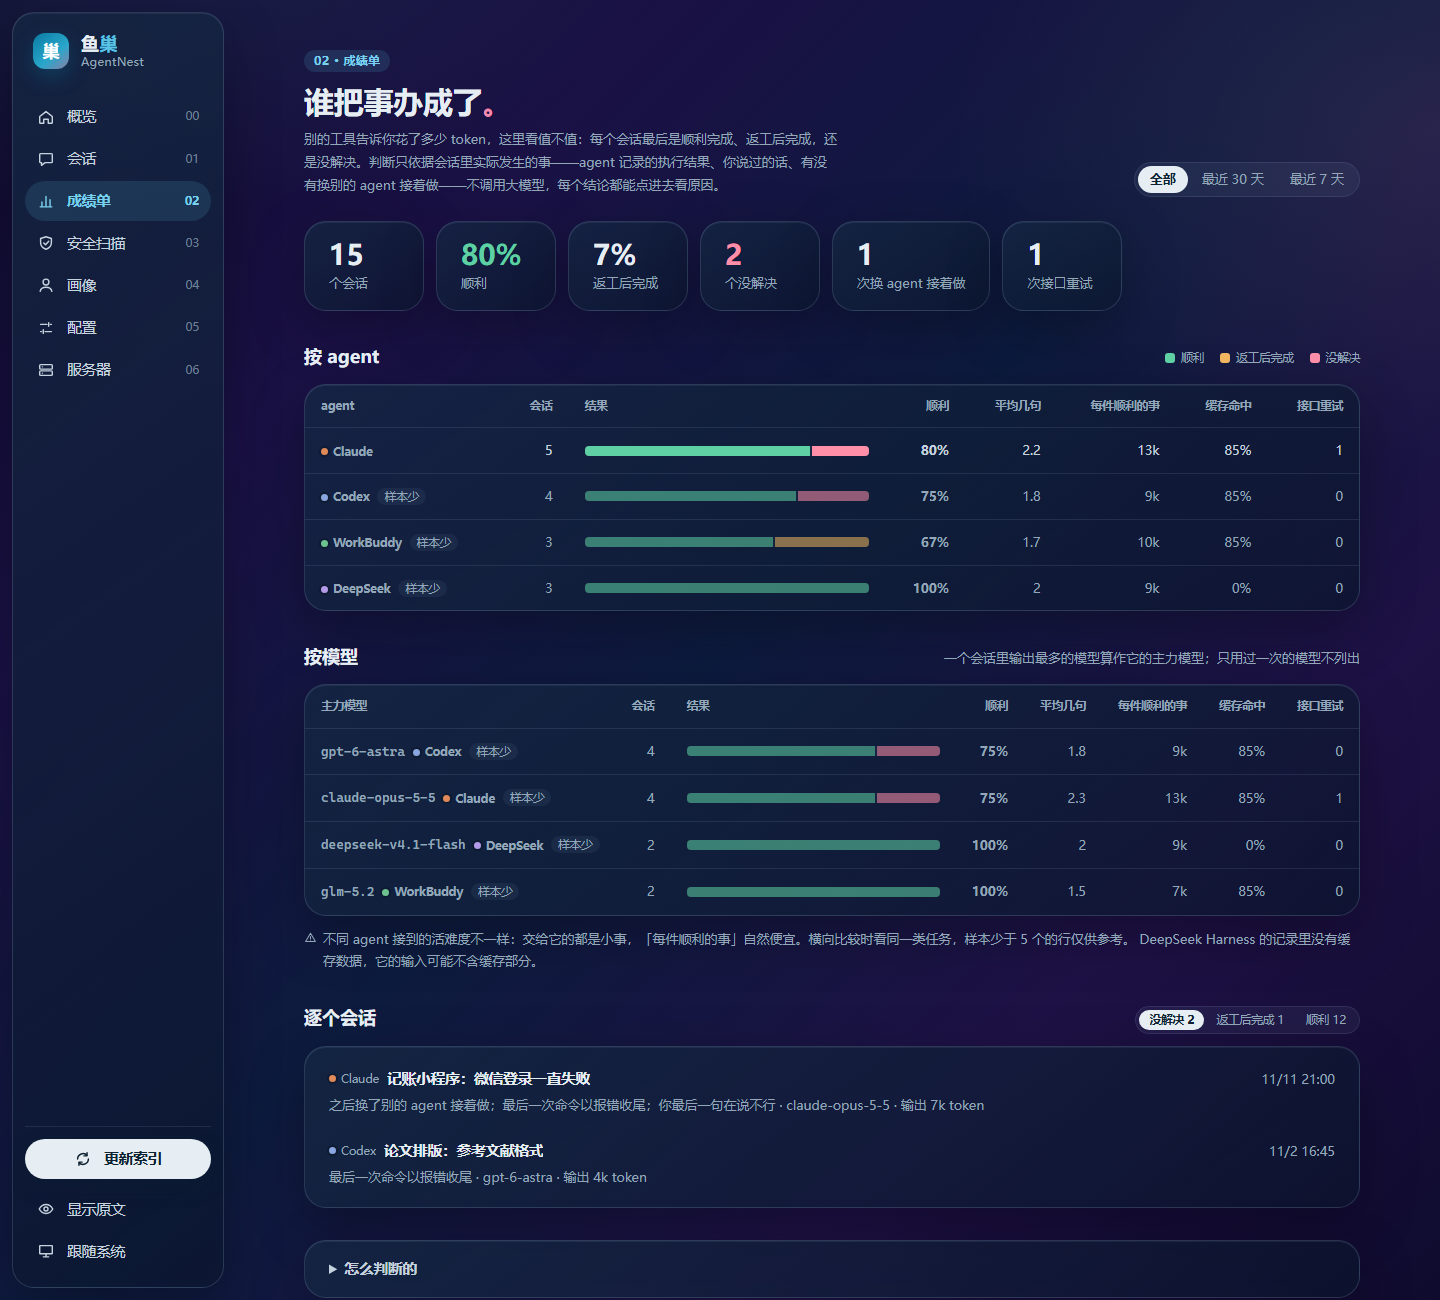
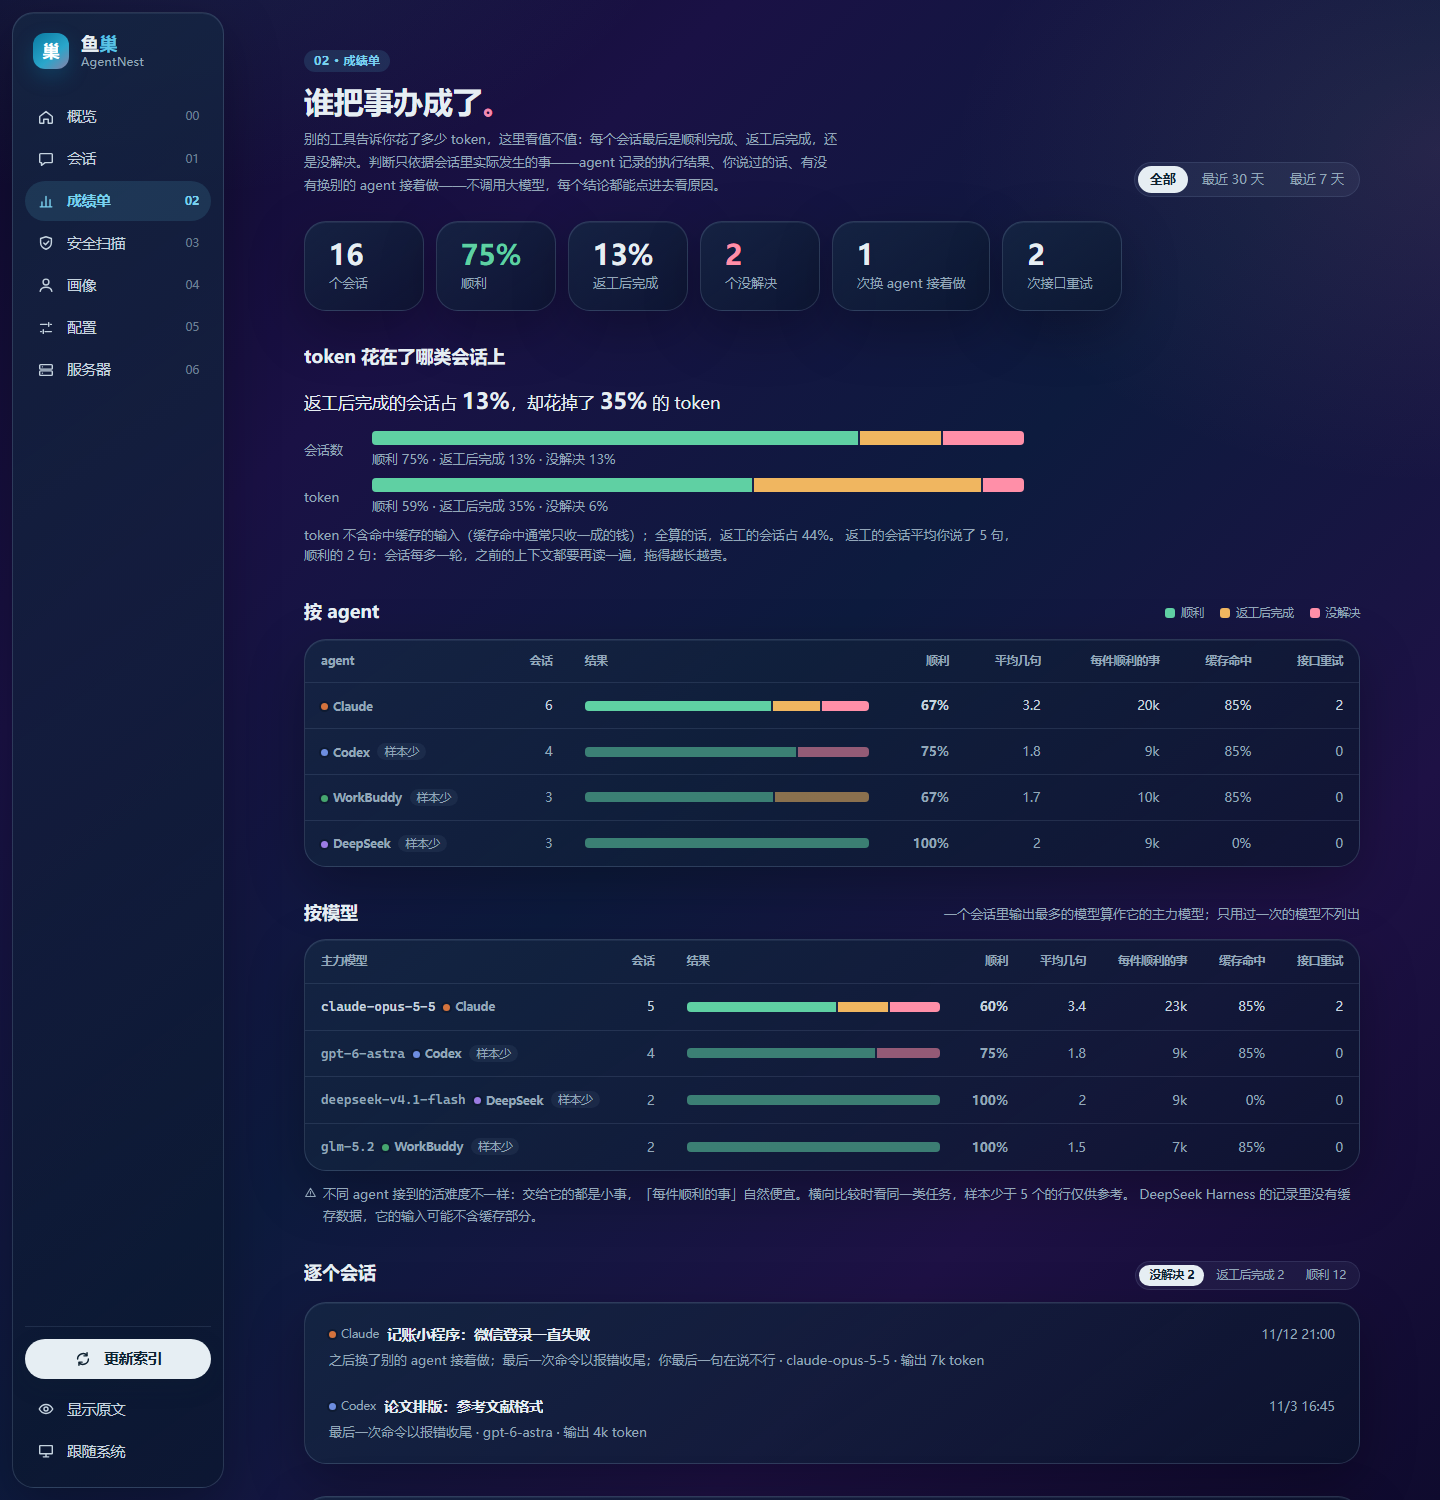
演示数据加一个长的返工会话；文档：复盘和 token 去向写进 README、架构、更新日志，开发日志记第六轮校准和按 agent 筛选的接力 bug；更新截图

diff --git a/scripts/demo.ts b/scripts/demo.ts
@@ -185,6 +185,76 @@ const STORIES: Story[] = [
     ],
   },
   {
+    // 长的返工会话：两次说不行、一次接口重试、中途两次执行失败，最后修好了。复盘时间线和「token 花在哪」靠它演示
+    agent: 'claude',
+    id: 'demo-blog-perf',
+    title: '博客：首屏太慢，Lighthouse 只有 52 分',
+    cwd: BLOG,
+    start: at(2, 20, 10),
+    turns: [
+      {
+        user: '博客首页太慢了，Lighthouse 性能只有 52 分，帮我优化一下首屏',
+        reply: '首屏主要卡在三张大图和一个同步加载的统计脚本。先把非首屏图片改成懒加载，统计脚本加上 defer。',
+        tools: [
+          edit(`${BLOG}\\src\\pages\\index.astro`, '<img src={post.cover}', '<img loading="lazy" src={post.cover}'),
+          bash('npm run build', 'built in 8.2s'),
+        ],
+      },
+      {
+        user: '跑一下 Lighthouse 看看分数',
+        reply: '68 分。剩下的大头是首屏那张 hero 图，原图 2.4 MB。',
+        tools: [bash('npx lighthouse http://localhost:4321 --only-categories=performance --quiet', 'Performance: 68  LCP 3.9 s')],
+      },
+      {
+        user: 'hero 图压一下，换成 webp',
+        reply: '用 sharp 转成了 webp，按屏幕宽度给三档：640、1280、1920。',
+        tools: [
+          failed(bash('node scripts/optimize-images.mjs', "Error: Cannot find module 'sharp'")),
+          bash(
+            'npm i -D sharp && node scripts/optimize-images.mjs',
+            'hero.jpg → hero-640.webp 38 KB, hero-1280.webp 96 KB, hero-1920.webp 171 KB',
+          ),
+        ],
+      },
+      {
+        user: '还是不行，手机上首屏的图是糊的',
+        reply: '手机屏幕是 3 倍密度，640 宽的图被放大了。我把 srcset 改成按密度挑图……',
+      },
+      {
+        user: 'Try again',
+        reply: 'srcset 改好了，sizes 写成 100vw，手机上会选 1280 宽的那张。',
+        tools: [
+          edit(
+            `${BLOG}\\src\\components\\Hero.astro`,
+            'srcset={small}',
+            'srcset={`${s640} 640w, ${s1280} 1280w, ${s1920} 1920w`} sizes="100vw"',
+          ),
+          bash('npm run build', 'built in 8.4s'),
+        ],
+      },
+      {
+        user: '还是一样糊，而且图片加载完页面会跳一下',
+        reply:
+          '跳动是因为 img 没写宽高，浏览器不知道要留多大位置，已经补上 width、height。糊是因为 Astro 的图片组件又压了一次，质量被设成了 50，改成 80。',
+        tools: [
+          edit(`${BLOG}\\astro.config.mjs`, 'quality: 50', 'quality: 80'),
+          failed(bash('npm test', 'FAIL tests/layout.test.ts  expected CLS < 0.1, got 0.18')),
+          edit(`${BLOG}\\src\\components\\Hero.astro`, '<img', '<img width={1280} height={640}'),
+          bash('npm test', 'PASS 12 tests'),
+        ],
+      },
+      {
+        user: '再测一次分数',
+        reply: '性能 94 分，LCP 1.4 秒，CLS 0.02。首屏图片从 2.4 MB 降到 96 KB。',
+        tools: [bash('npx lighthouse http://localhost:4321 --only-categories=performance --quiet', 'Performance: 94  LCP 1.4 s  CLS 0.02')],
+      },
+      {
+        user: '好了，可以了，谢谢',
+        reply: '不客气。改动都在 feat/perf 分支，合并前记得在真机上再看一眼。',
+      },
+    ],
+  },
+  {
     agent: 'workbuddy',
     id: 'demo-ledger-chart',
     model: 'hy4-free',

diff --git a/docs/devlog.md b/docs/devlog.md
@@ -393,6 +393,7 @@ ssh 参数里固定 `StrictHostKeyChecking=yes`、`BatchMode=yes`、`IdentitiesO
 | 3 | Claude 仍有 37% 返工 | 「同一个要求重复了」——抽查发现是一排 `Try again` 和一字不差的重发 | 拆成两个指标：一字不差的重发和 Try again 是**接口重试**（中转站出错），换个说法再说一遍才是**返工** |
 | 4 | 「还是不行」之后 agent 修好了，却被判没解决 | 用户常常修好后不再回话 | 说了不行之后，agent 又成功执行过操作的，算返工后完成 |
 | 5 | 「换个说法」没识别出来 | 再说一遍时常常是原话加补充，相似度被多出来的字拉低 | 用重合度（短句有多少落在长句里），并要求两句长度相差不到一倍，排除「没有」「接着」这种短话 |
+| 6 | 开口第一句就被算成「说不行」 | 复盘时间线上一眼看出来：「我的 codex++ 打不开了」「电脑总是死机」是在描述问题，不是在说这个 agent 没做好。162 个会话里影响 2 个 | agent 回过话或动过手之后说的「不行」才算 |
 
 每次调整都补了对应的测试，现在 `scorecard.test.ts` 里的每个用例都对应一次真实的误判。
 
@@ -413,3 +414,27 @@ ssh 参数里固定 `StrictHostKeyChecking=yes`、`BatchMode=yes`、`IdentitiesO
 - 「顺利」只代表没有出现失败的信号，不代表用户一定满意
 - 接力的相似度匹配会把「同一个测试题在几家 agent 里各问一遍」也算成接力
 - DeepSeek Harness 的记录里没有缓存数据，它的输入 token 可能不含缓存
+
+## 2026-11-15 · 复盘：一个会话卡在了哪里
+
+### 为什么做这个
+
+成绩单页面上写着「每个结论都能点进去看原因」，实际上点进去只是从头打开会话——几百条记录里，「最后一次命令以报错收尾」到底是哪一条，得自己翻。结论没有证据位置，就没法核对，也就没法让人信。
+
+### 做了什么
+
+- **每条理由带上证据所在的消息**：判断时顺手记下位置（第一次说不行、第一次重说、最后一次失败的命令、最后一句话），点理由直接跳过去，命中的是工具输出就自动展开
+- **复盘时间线**：会话顶部两行，上面是你说的每句话（要求、说不行、重说、重发、说好了），下面是 agent 执行失败的地方；收尾「卡住、之后再没好起来」的那一段铺一层底色。形状、颜色、图例文字三重区分，不只靠颜色；图例是按钮，键盘可以逐个跳到下一处
+- **接力的两头互相链接**：被接手的会话显示「之后换到 Codex 接着做」，接手的会话显示「接手自 Claude」
+- **token 花在了哪类会话上**：成绩单上两根条对照——按会话数分和按 token 分
+
+### 你的数据里看出了什么
+
+返工的会话占 12%，却花掉了 37% 的 token（不含缓存命中；全算是 55%）。原因很直接：返工的会话平均你说了 30 句，顺利的只有 5 句。会话每多一轮，之前的全部上下文都要再作为输入读一遍，拖得越长越贵。比起换更便宜的模型，第一次就把要求说清楚更省钱。
+
+### 踩过的坑
+
+- **按 agent 筛选成绩单时，接力永远是 0。** 原来只拿筛选后的会话去配对，而接力一定发生在两个不同的 agent 之间，另一半永远不在里面。改成先在全部会话里找接力，再筛选。这个 bug 是做复盘时发现的：单个会话的复盘也需要知道它有没有被接手，于是把「找接力」拆成了独立的函数，才看出筛选的问题
+- **缓存要不要算进 token。** 第一版直接用「输入 + 输出」，返工占 55%，很吓人；但缓存命中通常只收一成的钱，长会话的输入大部分是缓存，全算会夸大。改成默认不含缓存命中，同时注明全算的数字
+- **复盘不返回消息原文。** 接口只给结论、理由和位置，悬停提示里的文字取自已经打开的会话（同样经过打码），不多出一条泄露的路
+

diff --git a/README.md b/README.md
@@ -25,8 +25,8 @@ npm run demo
 |---|---|
 | 搜索延迟 | 作者本机 6.5 万条真实消息：**P50 15 毫秒，P95 17 毫秒**（优化前 P95 264 毫秒，[过程](docs/perf.md)） |
 | 首次建索引 | 10 万条合成消息约 5 秒；作者本机真实数据（工具输出多，索引 534 MB）约 100 秒。之后只重新解析有变化的文件 |
-| 网页体积 | JS 经 gzip 86 KB，不用任何 UI 库、图标库、Markdown 库；CI 里有 100 KB 的预算 |
-| 测试 | 143 个，行覆盖率 95%；端到端测试用临时家目录真实启动命令行，画像生成对着假的大模型接口跑完整流程 |
+| 网页体积 | JS 经 gzip 90 KB，不用任何 UI 库、图标库、Markdown 库；CI 里有 100 KB 的预算 |
+| 测试 | 155 个，行覆盖率 95%；端到端测试用临时家目录真实启动命令行，画像生成对着假的大模型接口跑完整流程 |
 | 运行时依赖 | 5 个 |
 
 ## 成绩单：哪个 agent、哪个模型真的把事办成了
@@ -38,7 +38,9 @@ npm run demo
 - **判断依据是会话里实际发生的事**：agent 自己记录的执行结果（Claude 的 `is_error`、Codex 的退出码……）、你说过的「还是不行」、你有没有换个说法把要求再说一遍
 - **只有多 agent 工具才看得到的信号**：一件事在 Claude 里没搞定、转头去 Codex 接着做——这是「没解决」最真实的证据
 - **区分 agent 的问题和接口的问题**：一字不差地重发、`Try again` 算接口重试，不算 agent 返工；agent 自己试错再修好也不算返工
-- **每个结论都能点进去看原因**，样本少的行会标出来；不调用大模型，不花钱
+- **每个结论都能点进去看证据**：理由直接跳到对应的那条消息；会话顶部的复盘时间线标出你每次说不行、重说、重发，以及 agent 每次执行失败的位置，收尾卡住的那一段一眼可见
+- **token 花在了哪类会话上**：作者自己的数据里，返工的会话占 12%，却花掉了 37% 的 token——返工的会话平均要说 30 句，顺利的 5 句
+- 样本少的行会标出来；不调用大模型，不花钱
 
 规则是在作者真实的 160 多个会话上一条条校准出来的，过程见 [devlog](docs/devlog.md)。
 
@@ -59,7 +61,7 @@ yuchao score --days 30 --all
 | | |
 |---|---|
 | ![概览](docs/images/overview.png) | ![成绩单（深色）](docs/images/score-dark.png) |
-| ![会话](docs/images/session.png) | ![安全扫描（深色）](docs/images/scan-dark.png) |
+| ![会话复盘](docs/images/session.png) | ![安全扫描（深色）](docs/images/scan-dark.png) |
 | ![画像](docs/images/profile.png) | ![概览（深色）](docs/images/overview-dark.png) |
 
 ## 本地优先，默认只读

diff --git a/CHANGELOG.md b/CHANGELOG.md
@@ -8,12 +8,16 @@
 
 - **成绩单**（`yuchao score`、网页「成绩单」页、概览卡片）：每个 agent、每个模型的会话里，多少顺利完成、多少返工后完成、多少没解决，以及平均要说几句、每件顺利的事花多少 token、缓存命中率、接口重试次数。判断只依据会话里实际发生的事，每个结论带原因；能识别「在一个 agent 里没搞定、换到另一个接着做」
 - **用量**：概览页标题旁显示本机累计消耗的 token（按 agent 分段、缓存命中率）；新的「用量」一节按天画出每个 agent 的 token，列出最费 token 的会话
+- **复盘**：打开会话时顶部显示两行时间线——你说的每句话（要求、说不行、重说、重发、说好了）和 agent 执行失败的地方，收尾卡住的那一段标出底色；成绩单的每条理由都指向证据所在的消息，点一下直接跳过去；接力的两个会话互相链接。接口 `/api/diagnosis/<会话>`
+- **token 花在了哪类会话上**：成绩单上对照按会话数和按 token 分的比例（默认不含缓存命中）；`yuchao score` 也会输出
 - 解析时记录每个会话按模型汇总的 token 用量，四家口径统一
 - 解析时记录每次工具调用 agent 自己写下的执行结果（成功 / 失败 / 不知道）
 
 ### 修复
 
 - Codex 定时任务注入的 `<heartbeat>` 不再被当成用户写的话（影响搜索和画像）
+- 成绩单按 agent 筛选时（`yuchao score --agent`），接力永远识别不出来：原来只在筛选后的会话里配对
+- 会话开头第一句里的「打不开了」「还是不行」是在描述问题，不再算作返工
 
 ## [0.2.0] - 2026-11-11
 
